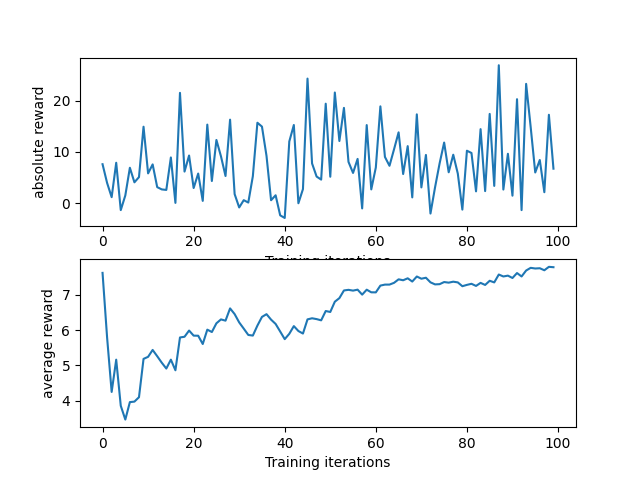
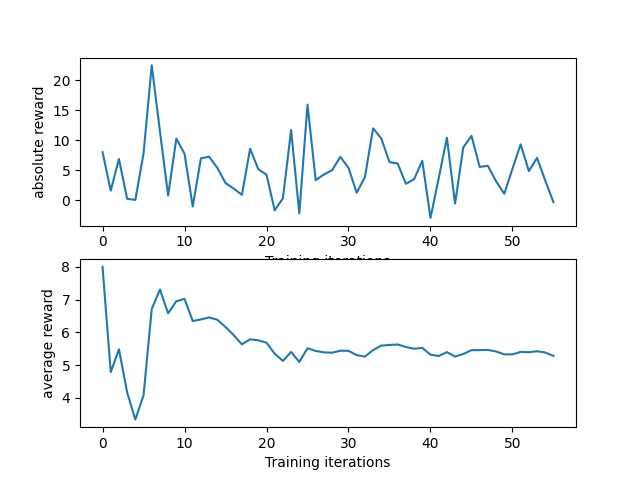
feat: testing shared params.

diff --git a/educational/systems/policy_optimization/ppo/ippo.py b/educational/systems/policy_optimization/ppo/ippo.py
@@ -292,17 +292,17 @@ def make_system(
                 n_step
             )
 
-            updates, new_policy_optimiser_state = optimisers[agent][
+            updates, new_policy_optimiser_state = optimisers['agent_0'][
                 "actor_optim"
-            ].update(policy_grads, optimisers[agent]["actor_state"])
+            ].update(policy_grads, optimisers['agent_0']["actor_state"])
             print(
                 f"policy_loss {p_loss} {optax.global_norm(policy_grads)} {optax.global_norm(updates)}"
             )
             new_policy_params = optax.apply_updates(actor_params, updates)
 
             # Update params
-            networks[agent]["actor_params"] = new_policy_params
-            optimisers[agent]["actor_state"] = new_policy_optimiser_state
+            networks['agent_0']["actor_params"] = new_policy_params
+            optimisers['agent_0']["actor_state"] = new_policy_optimiser_state
         return networks, optimisers
 
     return networks, config, prng, epoch_function, sample_fn, optimisers
